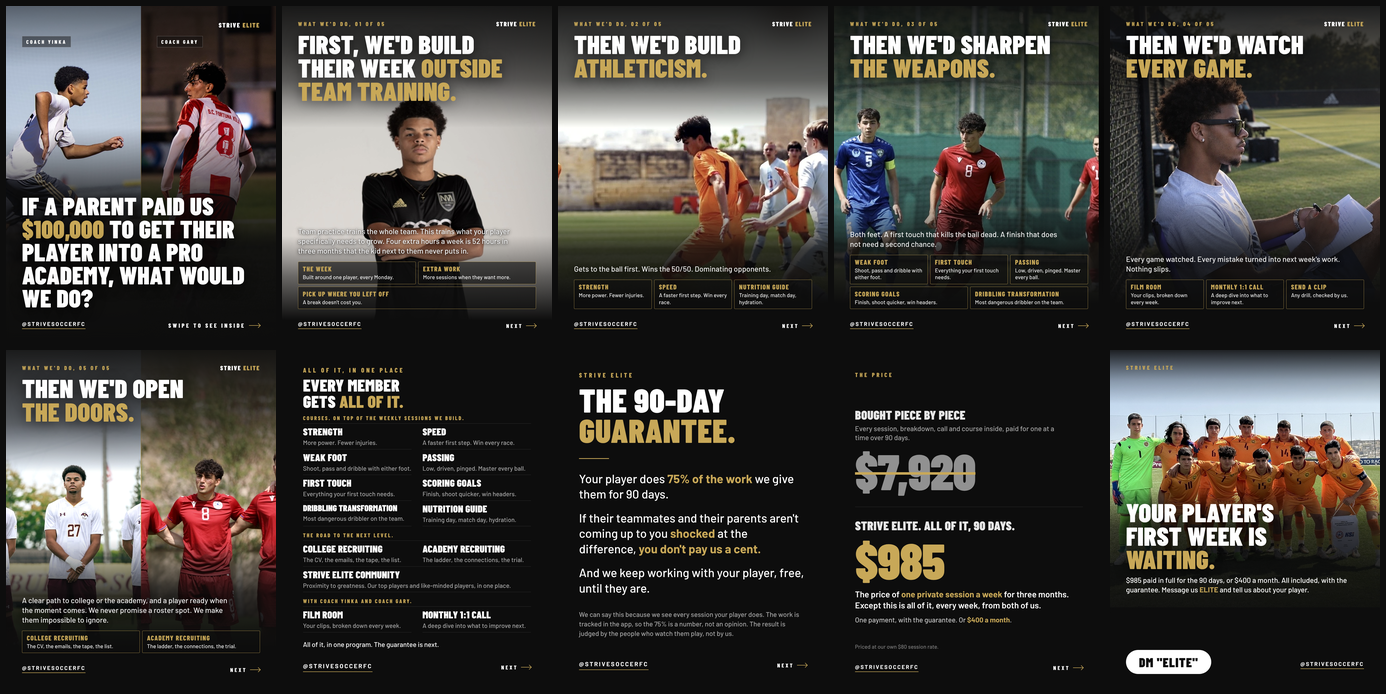
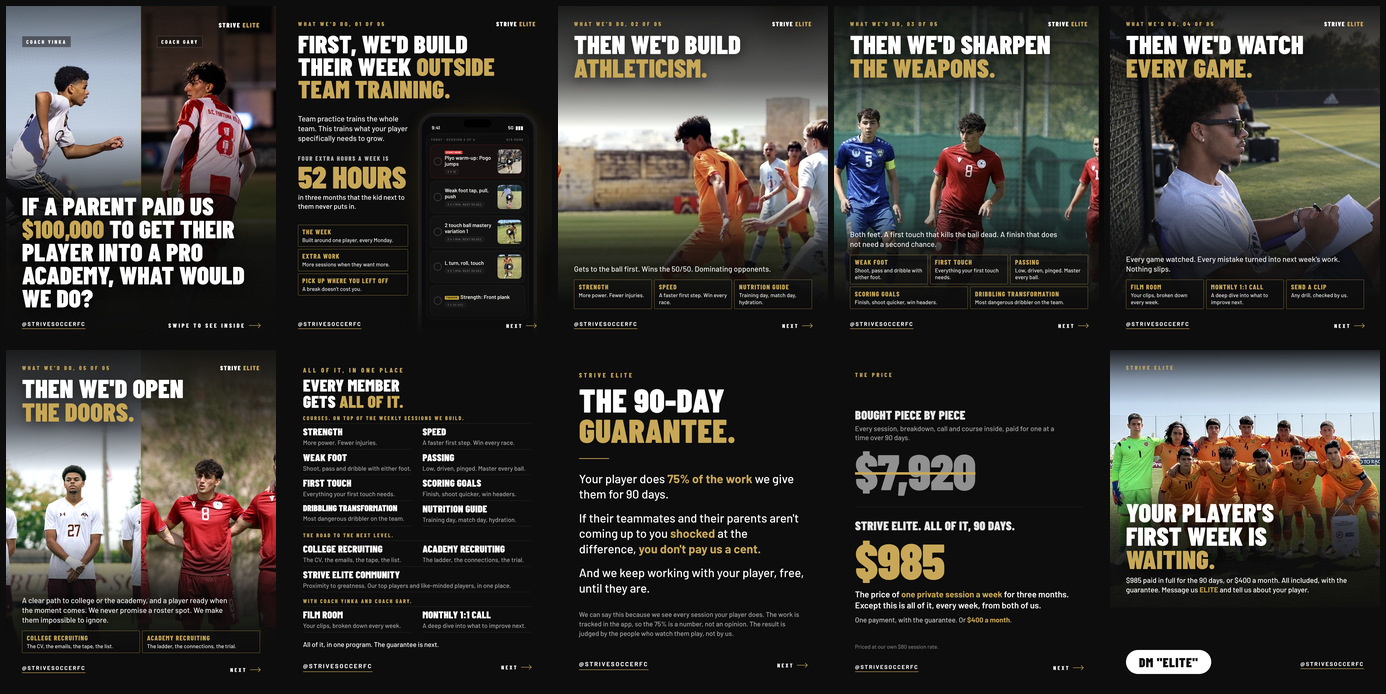
Offer carousel: slide 2 is a real app session on a phone
Claude-Session: https://claude.ai/code/session_011JsCTTjCbUkHbTuWTKQSXJ

Changed region(s): [[0.1861, 0.0303, 0.4033, 0.4539]]

diff --git a/marketing/announcement/offer-post/step1.html b/marketing/announcement/offer-post/step1.html
@@ -2,37 +2,98 @@
 <title>Step 01 (1080x1350)</title>
 <link rel="stylesheet" href="../../covers/strive-elite-meeting/fonts.css">
 <style>
-/* The walk, framed the Nike way (Coach Yinka, Nov 4 2026): headline in the
-   negative space at the top, the coach uncovered in the clear band under
-   it, the sentence and the chips low. Photos are pre-composed in
-   photos/stepN.jpg so the face lands at about y 500. */
+/* Slide 2 of the walk, built from the product (Coach Yinka, Nov 4 2026:
+   "use photos of inside the app that you create ... something easy to
+   digest that shows a session example"). The right column is a phone
+   showing the app's real session screen (components/elite/TodaySession.tsx:
+   "Today . Session N of N", the red Start here badge on the plyo
+   warm-up, the gold Finisher badge, the reps chip). Titles, reps and clips
+   are real bank drills; thumbnails are frames of those clips (app/*.jpg).
+   The left column is the copy, with the 52 hours as the one big number. */
 *{box-sizing:border-box;margin:0;padding:0}
 html,body{width:1080px;height:1350px;background:#0d0d0d;overflow:hidden}
 body{font-family:'Barlow',sans-serif;color:#fff;position:relative}
-.ph{position:absolute;inset:0;background:#0d0d0d url(photos/step1.jpg) center top/1080px 1350px;filter:saturate(.85) contrast(1.06)}
-
-.sh{position:absolute;inset:0;background:linear-gradient(180deg,rgba(13,13,13,.92) 0%,rgba(13,13,13,.55) 22%,rgba(13,13,13,0) 36%,rgba(13,13,13,0) 68%,rgba(13,13,13,.55) 80%,#0d0d0d 93%,#0d0d0d 100%)}
+.glow{position:absolute;right:-120px;top:330px;width:760px;height:760px;background:radial-gradient(closest-side,rgba(212,175,55,.16),rgba(212,175,55,0));}
 .top{position:absolute;left:64px;top:56px;right:64px;display:flex;justify-content:space-between;align-items:center}
 .step{font-family:'Barlow Condensed';font-weight:800;font-size:23px;letter-spacing:.3em;text-transform:uppercase;color:#c8a858}
 .wm{font-family:'Barlow Condensed';font-weight:900;font-size:25px;letter-spacing:.12em;text-transform:uppercase}
 .wm span{color:#c8a858}
-h1{position:absolute;left:64px;top:104px;right:64px;font-family:'Barlow Condensed';font-weight:900;font-size:104px;line-height:.9;text-transform:uppercase;letter-spacing:.005em;text-shadow:0 8px 50px rgba(0,0,0,.6)}
+h1{position:absolute;left:64px;top:104px;right:64px;font-family:'Barlow Condensed';font-weight:900;font-size:100px;line-height:.9;text-transform:uppercase;letter-spacing:.005em}
 h1 span{color:#c8a858}
-.low{position:absolute;left:64px;right:64px;bottom:140px}
-.p{font-size:30px;line-height:1.3;font-weight:500;max-width:860px;color:rgba(255,255,255,.95);text-shadow:0 2px 14px rgba(0,0,0,.9),0 0 3px rgba(0,0,0,.6)}
-.chips{margin-top:24px;display:flex;flex-wrap:wrap;gap:10px}
-.chips span{display:block;flex:1 1 30%;padding:14px 18px 13px;border:1.5px solid rgba(200,168,88,.85);border-radius:4px;background:rgba(13,13,13,.6)}
-.chips.n2 span,.chips.n4 span{flex-basis:44%}
-.chips b{display:block;font-family:'Barlow Condensed';font-weight:800;font-size:27px;line-height:1;letter-spacing:.08em;text-transform:uppercase;color:#c8a858;white-space:nowrap}
-.chips i{display:block;font-style:normal;margin-top:6px;font-size:22px;line-height:1.25;color:rgba(255,255,255,.9)}
+
+/* left column: the copy */
+.copy{position:absolute;left:64px;top:430px;width:440px}
+.p{font-size:30px;line-height:1.3;font-weight:500;color:rgba(255,255,255,.95)}
+.stat{margin-top:46px}
+.stat .l{font-family:'Barlow Condensed';font-weight:800;font-size:25px;letter-spacing:.14em;text-transform:uppercase;color:rgba(255,255,255,.7)}
+.stat .n{font-family:'Barlow Condensed';font-weight:900;font-size:124px;line-height:.92;white-space:nowrap;text-transform:uppercase;color:#c8a858;letter-spacing:-.005em}
+.stat .c{margin-top:8px;font-size:28px;line-height:1.3;font-weight:500;color:#fff}
+.tiles{margin-top:56px;display:grid;gap:10px}
+.tiles span{display:block;padding:13px 16px 12px;border:1.5px solid rgba(200,168,88,.85);border-radius:4px;background:rgba(13,13,13,.6)}
+.tiles b{display:block;font-family:'Barlow Condensed';font-weight:800;font-size:27px;line-height:1;letter-spacing:.08em;text-transform:uppercase;color:#c8a858;white-space:nowrap}
+.tiles i{display:block;font-style:normal;margin-top:6px;font-size:22px;line-height:1.25;color:rgba(255,255,255,.9)}
+
+/* right column: the phone */
+.phone{position:absolute;left:548px;top:430px;width:468px;height:900px;border-radius:64px 64px 0 0;background:#1a1a1d;padding:11px 11px 0;box-shadow:0 0 0 2px #2a2a2f,0 40px 90px -30px rgba(0,0,0,.9),0 0 60px -10px rgba(212,175,55,.18);overflow:hidden}
+.screen{height:100%;border-radius:54px 54px 0 0;background:#0a0a0a;position:relative;overflow:hidden;padding:0 18px}
+.island{position:absolute;left:50%;top:12px;width:112px;height:32px;margin-left:-56px;border-radius:20px;background:#000}
+.status{height:62px;display:flex;align-items:flex-end;justify-content:space-between;padding:0 22px 6px;font-weight:600;font-size:19px;color:#fff}
+.sess{border:1px solid rgba(255,255,255,.1);background:rgba(255,255,255,.02);border-radius:26px;padding:16px 14px 14px;margin-top:6px}
+.sh{display:flex;justify-content:space-between;font-size:12px;font-weight:600;letter-spacing:.2em;text-transform:uppercase;color:rgba(255,255,255,.42);padding:0 4px}
+.cards{margin-top:14px;display:grid;gap:11px}
+.card{display:flex;align-items:center;gap:12px;border:1px solid rgba(255,255,255,.1);background:rgba(255,255,255,.02);border-radius:22px;padding:15px 13px 15px 14px;min-height:122px}
+.card.start{border-color:rgba(239,68,68,.28);background:rgba(239,68,68,.045)}
+.ck{flex:none;width:32px;height:32px;border-radius:50%;border:2px solid rgba(255,255,255,.25)}
+.tx{flex:1;min-width:0}
+.tt{font-size:21px;line-height:1.15;font-weight:600;color:#F5F4EF}
+.bd{display:inline-block;vertical-align:2px;margin-right:6px;border-radius:4px;padding:2px 6px;font-size:9px;font-weight:700;letter-spacing:.1em;text-transform:uppercase}
+.bd.red{background:rgba(239,68,68,.92);color:#fff}
+.bd.gold{background:rgba(212,175,55,.92);color:#000}
+.chip{display:inline-block;margin-top:9px;border:1px solid rgba(255,255,255,.1);background:rgba(255,255,255,.03);border-radius:999px;padding:3px 10px;font-size:11px;letter-spacing:.12em;text-transform:uppercase;color:#8a8a92;white-space:nowrap}
+.th{flex:none;position:relative;width:96px;height:96px;border-radius:14px;overflow:hidden;background:#000}
+.th img{width:100%;height:100%;object-fit:cover;display:block}
+.th:after{content:"";position:absolute;left:50%;top:50%;width:30px;height:30px;margin:-15px 0 0 -15px;border-radius:50%;background:rgba(0,0,0,.55);border:1.5px solid rgba(255,255,255,.7)}
+.th:before{content:"";position:absolute;left:50%;top:50%;margin:-7px 0 0 -4px;border-left:11px solid #fff;border-top:7px solid transparent;border-bottom:7px solid transparent;z-index:2}
+.fade{position:absolute;left:0;right:0;bottom:0;height:150px;background:linear-gradient(180deg,rgba(13,13,13,0),#0d0d0d 85%)}
+
 .swipe{position:absolute;right:64px;bottom:60px;font-family:'Barlow Condensed';font-weight:800;font-size:22px;letter-spacing:.28em;text-transform:uppercase;display:flex;align-items:center;gap:12px}
 .swipe i{display:block;width:40px;height:2px;background:#c8a858;position:relative}
 .swipe i:after{content:"";position:absolute;right:0;top:-6px;width:12px;height:12px;border-top:2px solid #c8a858;border-right:2px solid #c8a858;transform:rotate(45deg)}
 .handle{position:absolute;left:64px;bottom:60px;font-weight:700;font-size:22px;letter-spacing:.18em;text-transform:uppercase}
 .handle:after{content:"";display:block;height:2px;width:100%;background:#c8a858;margin-top:6px}
 </style>
-<div class="ph"></div><div class="sh"></div>
+<div class="glow"></div>
 <div class="top"><div class="step">What we'd do, 01 of 05</div><div class="wm">Strive <span>Elite</span></div></div>
 <h1>First, we'd build<br>their week <span>outside<br>team training.</span></h1>
-<div class="low"><p class="p">Team practice trains the whole team. This trains what your player specifically needs to grow. Four extra hours a week is 52 hours in three months that the kid next to them never puts in.</p><div class="chips n3"><span><b>The Week</b><i>Built around one player, every Monday.</i></span><span><b>Extra Work</b><i>More sessions when they want more.</i></span><span><b>Pick Up Where You Left Off</b><i>A break doesn't cost you.</i></span></div></div>
+
+<div class="copy">
+  <p class="p">Team practice trains the whole team. This trains what your player specifically needs to grow.</p>
+  <div class="stat">
+    <div class="l">Four extra hours a week is</div>
+    <div class="n">52 hours</div>
+    <p class="c">in three months that the kid next to them never puts in.</p>
+  </div>
+  <div class="tiles">
+    <span><b>The Week</b><i>Built around one player, every Monday.</i></span>
+    <span><b>Extra Work</b><i>More sessions when they want more.</i></span>
+    <span><b>Pick Up Where You Left Off</b><i>A break doesn't cost you.</i></span>
+  </div>
+</div>
+
+<div class="phone"><div class="screen">
+  <div class="island"></div>
+  <div class="status"><span>9:41</span><span>5G &nbsp;▮▮▮</span></div>
+  <div class="sess">
+    <div class="sh"><span>Today · Session 2 of 4</span><span>0/5 done</span></div>
+    <div class="cards">
+      <div class="card start"><div class="ck"></div><div class="tx"><div class="tt"><span class="bd red">Start here</span><span style="white-space:nowrap">Plyo warm-up:</span> Pogo jumps</div><span class="chip">3 x 15</span></div><div class="th"><img src="app/plyo-pogo-jumps.jpg"></div></div>
+      <div class="card"><div class="ck"></div><div class="tx"><div class="tt">Weak foot tap, pull, push</div><span class="chip">3 x 1 min, rest 30 sec</span></div><div class="th"><img src="app/weak-foot-tap-pull-push.jpg"></div></div>
+      <div class="card"><div class="ck"></div><div class="tx"><div class="tt">2 touch ball mastery variation 1</div><span class="chip">3 x 1 min, rest 30 sec</span></div><div class="th"><img src="app/two-touch-ball-mastery-v1.jpg"></div></div>
+      <div class="card"><div class="ck"></div><div class="tx"><div class="tt">L turn, roll, touch</div><span class="chip">3 x 1 min, rest 30 sec</span></div><div class="th"><img src="app/l-turn-roll-touch.jpg"></div></div>
+      <div class="card"><div class="ck"></div><div class="tx"><div class="tt"><span class="bd gold">Finisher</span>Strength: Front plank</div><span class="chip">3 x 30 sec</span></div></div>
+    </div>
+  </div>
+</div></div>
+<div class="fade" style="top:1170px;height:180px;position:absolute"></div>
+
 <div class="handle">@strivesoccerfc</div><div class="swipe">Next <i></i></div>

diff --git a/marketing/announcement/offer-post/compose-photos.py b/marketing/announcement/offer-post/compose-photos.py
@@ -26,7 +26,6 @@ def comp(src,k,head,target,out,canvas=(1080,1350),mirror=False,band_bright=.8,gr
         c.paste(im,(x,y))
     if out: c.save(out,quality=92)
     return c
-comp("yinka-nva-studio.jpg",1.3,(609,289),(540,535),"photos/step1.jpg")  # step 1: the studio portrait, his "different picture" Nov 4; the grey backdrop graded down toward brand black
 comp("gary-armenia-u16.jpg",1.5,(575,160),(540,510),"photos/step2.jpg")  # step 2, athleticism: the U16 shot (swapped with the weapons slide, Coach Yinka Nov 4)
 comp("gary-armenia-u19.jpg",1.3,(780,470),(540,490),"photos/step3.jpg")  # step 3, the weapons: the U19 shot
 comp("yinka-sideline-notes.jpg",1.4,(300,520),(420,500),"photos/step4.jpg")  # step 4: Coach Yinka on the sideline with the notebook, his pick Nov 4; he looks right, so the face sits a touch left of centre and the notebook stays in frame (ECNL photo kept in src)

diff --git a/CLAUDE.md b/CLAUDE.md
@@ -3595,6 +3595,35 @@ commit.
       was pulled back. His screenshot still showed "the director, the
       tryout", so his editor held the earlier export: he uses the
       re-sent recap.png. Sent.
+      THEN (Coach Yinka: "For 'build the week outside of team
+      training' can we use photos of inside the app that you create,
+      be creative for the layout. But something easy to digest that
+      shows a session example. Pick your best session"): SLIDE 2
+      (step1) IS NOW THE APP, not a photo of him. The headline stays;
+      the right column is a phone showing the app's real session
+      screen as TodaySession.tsx draws it (Today . Session 2 of 4,
+      0/5 done, the red Start here badge on the plyo warm-up, the
+      gold Finisher badge, the reps chip, a round check on every
+      card) in the app's own colours (ink black, gold D4AF37, bone).
+      THE SESSION, my pick, every line a real bank drill with its
+      real reps (pulled read-only from elite_drills, no player data):
+      Plyo warm-up: Pogo jumps 3 x 15; Weak foot tap, pull, push 3 x 1
+      min, rest 30 sec; 2 touch ball mastery variation 1 (same reps);
+      L turn, roll, touch (same reps); Strength: Front plank 3 x 30
+      sec. The thumbnails are frames of the real drill clips
+      (marketing/announcement/offer-post/app/*.jpg, square crops of
+      public/drills); they stand in for the video the app plays under
+      each card, and the descriptions are left off so the card reads
+      at a glance. The left column: "Team practice trains the whole
+      team. This trains what your player specifically needs to grow."
+      then the 52 HOURS as the one big gold number ("Four extra
+      hours a week is 52 hours in three months that the kid next to
+      them never puts in."), then the three tiles. No total session
+      time is shown (the bank minutes add to 23, not the 40 minutes
+      the old launch carousel said). The studio portrait is out of
+      the carousel (stays in photos/src); its composition line and
+      photos/step1.jpg are removed from compose-photos.py. Preview
+      strip rebuilt. Sent.
 
 ## Growth target (stamped Sept 19, Coach Yinka's own call)
 
